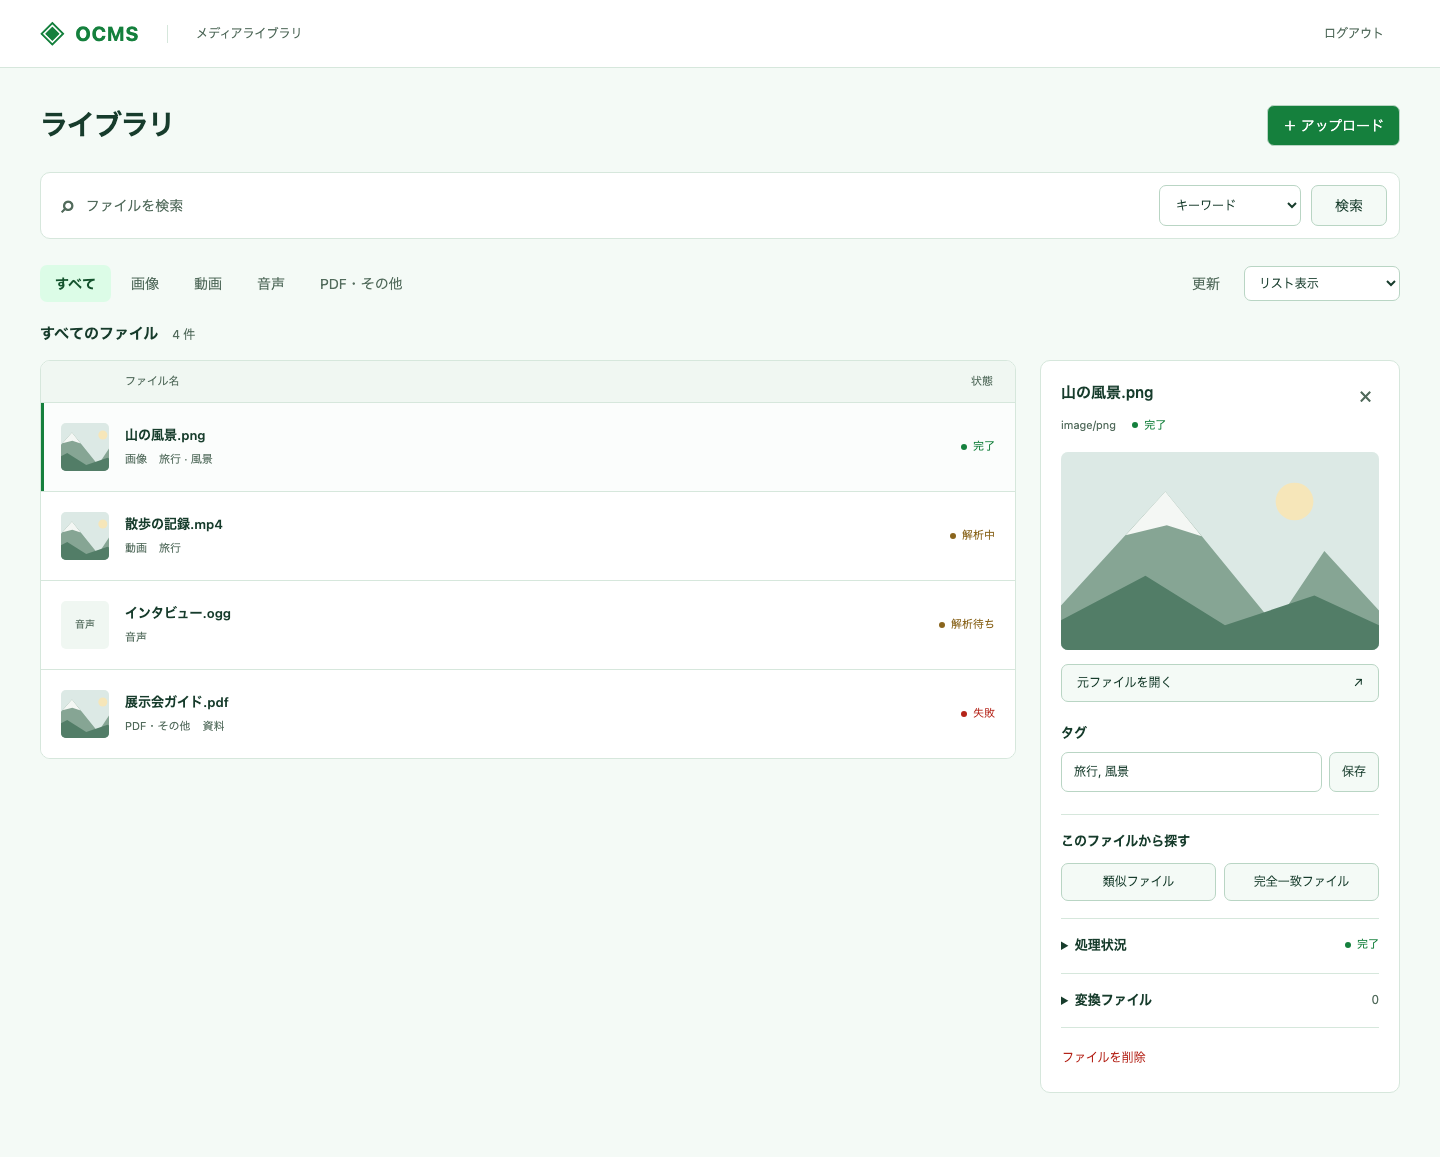
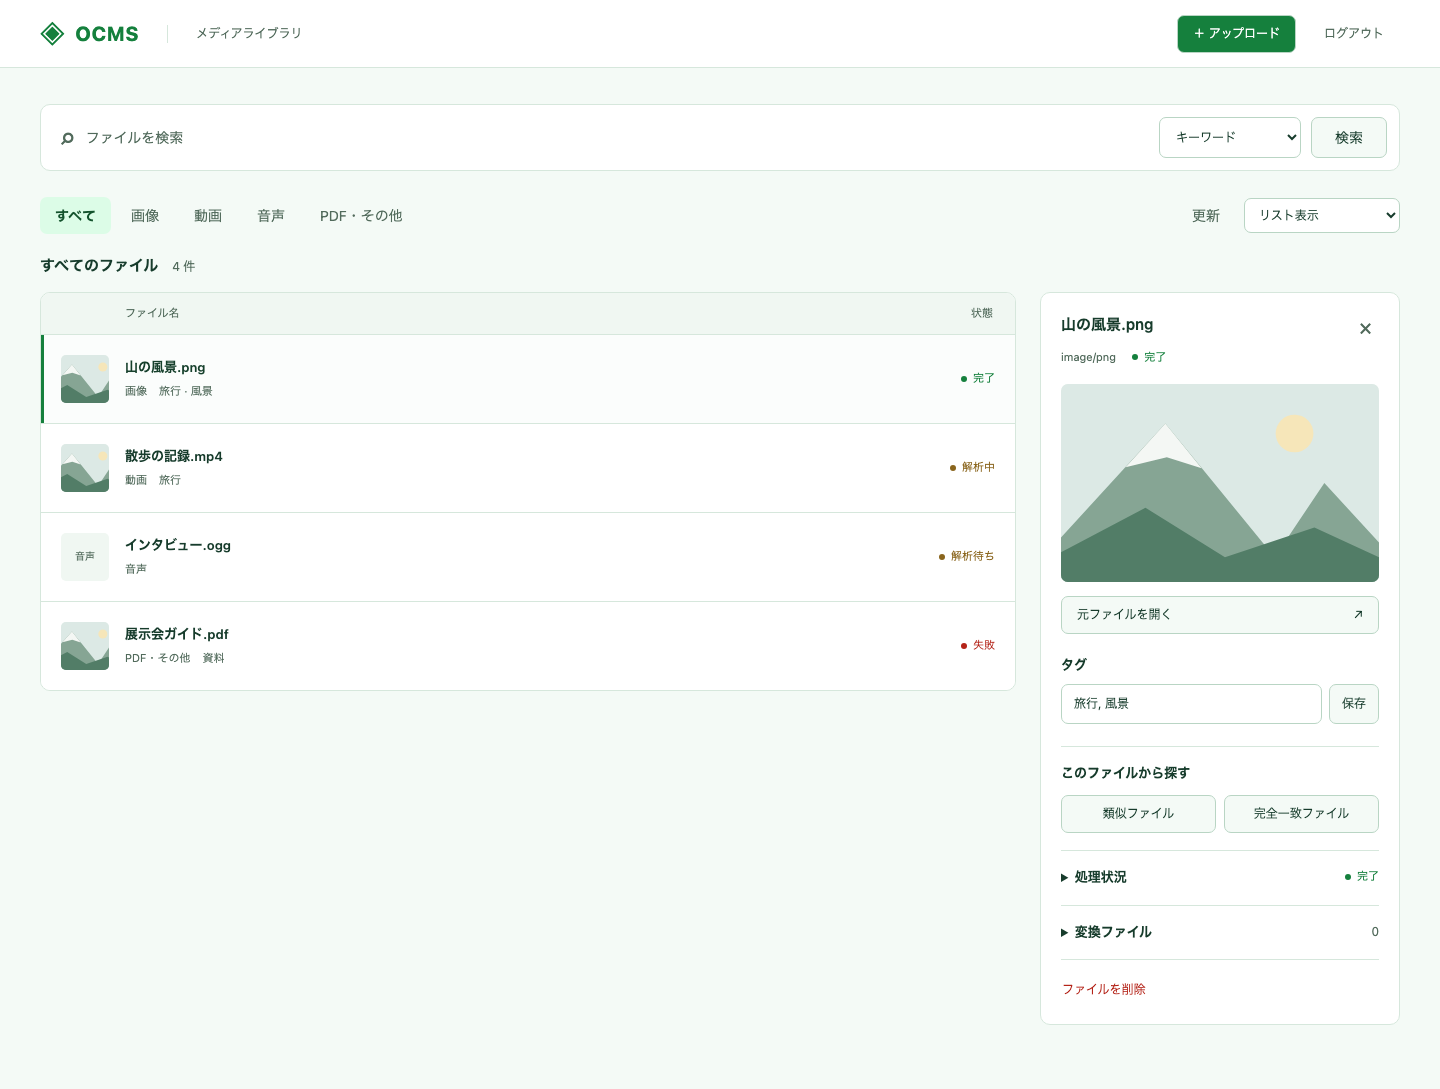
feat: move upload action into library header

diff --git a/web/tests/library.spec.ts b/web/tests/library.spec.ts
@@ -310,6 +310,15 @@ test('desktop and narrow layouts fit without horizontal scrolling', async ({
 });
 
 test('upload resets filters and opens the uploaded file', async ({ page }) => {
+  await expect(
+    page.getByRole('heading', { name: 'ライブラリ', exact: true }),
+  ).toHaveCount(0);
+  const chooser = page.waitForEvent('filechooser');
+  await page
+    .getByRole('banner')
+    .getByRole('button', { name: '＋ アップロード', exact: true })
+    .click();
+  expect((await chooser).isMultiple()).toBe(false);
   await page.getByRole('button', { name: '音声', exact: true }).click();
   await expect(page.locator('.file')).toHaveCount(1);
   const content = page.waitForRequest(
@@ -580,7 +589,7 @@ test('PDF search thumbnails use the matched page in every view', async ({
   }
 });
 
-// Keep the existing wireframe fixed while changing component implementations/themes.
+// Track the library layout across views and responsive breakpoints.
 test('library wireframe retains its geometry across views and breakpoints', async ({
   page,
 }) => {
@@ -598,7 +607,6 @@ test('library wireframe retains its geometry across views and breakpoints', asyn
       await page.getByLabel('表示方法').selectOption(view);
       for (const selector of [
         '.app-header',
-        '.heading',
         '.search',
         '.library-toolbar',
         '.files',

diff --git a/web/src/components/library/AppHeader.tsx b/web/src/components/library/AppHeader.tsx
@@ -1,9 +1,12 @@
+import type { ReactNode } from 'react';
 import { Button } from '../ui/button';
 
 export function AppHeader({
   authenticated,
   onLogout,
+  children,
 }: {
+  children?: ReactNode;
   authenticated: boolean;
   onLogout: () => void;
 }) {
@@ -14,14 +17,17 @@ export function AppHeader({
       </a>
       <span className="workspace-name">メディアライブラリ</span>
       {authenticated && (
-        <Button
-          variant="ghost"
-          type="button"
-          className="quiet"
-          onClick={onLogout}
-        >
-          ログアウト
-        </Button>
+        <div className="header-actions">
+          {children}
+          <Button
+            variant="ghost"
+            type="button"
+            className="quiet"
+            onClick={onLogout}
+          >
+            ログアウト
+          </Button>
+        </div>
       )}
     </header>
   );

diff --git a/web/src/App.tsx b/web/src/App.tsx
@@ -352,7 +352,15 @@ export function App() {
 
   return (
     <div className="shell">
-      <AppHeader authenticated={Boolean(me)} onLogout={logout} />
+      <AppHeader authenticated={Boolean(me)} onLogout={logout}>
+        {me && (
+          <UploadControl
+            uploadInput={uploadInput}
+            busy={progress !== null}
+            onUpload={upload}
+          />
+        )}
+      </AppHeader>
       <main>
         {error && (
           <div className="error" role="alert">
@@ -376,11 +384,6 @@ export function App() {
           <LoginPanel development={dev} onDevLogin={devLogin} />
         ) : (
           <>
-            <UploadControl
-              uploadInput={uploadInput}
-              busy={progress !== null}
-              onUpload={upload}
-            />
             <SearchForm
               query={query}
               mode={mode}

diff --git a/web/src/style.css b/web/src/style.css
@@ -165,21 +165,19 @@ h3 {
   border-left: 1px solid var(--border);
   padding-left: 28px;
 }
-.app-header > button {
+.header-actions {
+  display: flex;
+  align-items: center;
+  gap: 12px;
   margin-left: auto;
+}
+.header-actions > button {
   font-size: 12px;
 }
 main {
   max-width: 1560px;
   margin: 0 auto;
   padding: 36px 40px 64px;
-}
-.heading {
-  display: flex;
-  align-items: center;
-  justify-content: space-between;
-  gap: 20px;
-  margin-bottom: 26px;
 }
 .search {
   display: flex;
@@ -768,13 +766,11 @@ details[open] summary {
   h1 {
     font-size: 24px;
   }
-  .heading {
-    gap: 12px;
-    margin-bottom: 20px;
+  .header-actions {
+    gap: 4px;
   }
-  .heading button {
-    font-size: 12px;
-    padding-inline: 12px;
+  .header-actions > button {
+    padding-inline: 8px;
   }
   .search {
     flex-wrap: wrap;

diff --git a/web/src/components/library/AppHeader.stories.tsx b/web/src/components/library/AppHeader.stories.tsx
@@ -1,11 +1,16 @@
 import type { Meta, StoryObj } from '@storybook/react-vite';
 import { fn } from 'storybook/test';
 import { AppHeader } from './AppHeader';
+import { UploadControl } from './UploadControl';
 
 const meta = {
   title: 'Auth/AppHeader',
   component: AppHeader,
-  args: { authenticated: true, onLogout: fn() },
+  args: {
+    authenticated: true,
+    onLogout: fn(),
+    children: <UploadControl busy={false} onUpload={fn()} />,
+  },
 } satisfies Meta<typeof AppHeader>;
 export default meta;
 type Story = StoryObj<typeof meta>;

diff --git a/web/src/components/library/UploadControl.tsx b/web/src/components/library/UploadControl.tsx
@@ -15,8 +15,7 @@ export function UploadControl({
   const input = uploadInput ?? localInput;
 
   return (
-    <section className="heading">
-      <h1>ライブラリ</h1>
+    <>
       <Button
         variant="default"
         type="button"
@@ -39,6 +38,6 @@ export function UploadControl({
           e.target.value = '';
         }}
       />
-    </section>
+    </>
   );
 }
